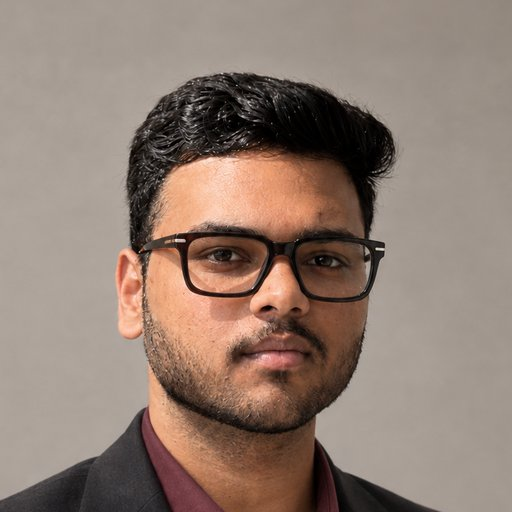
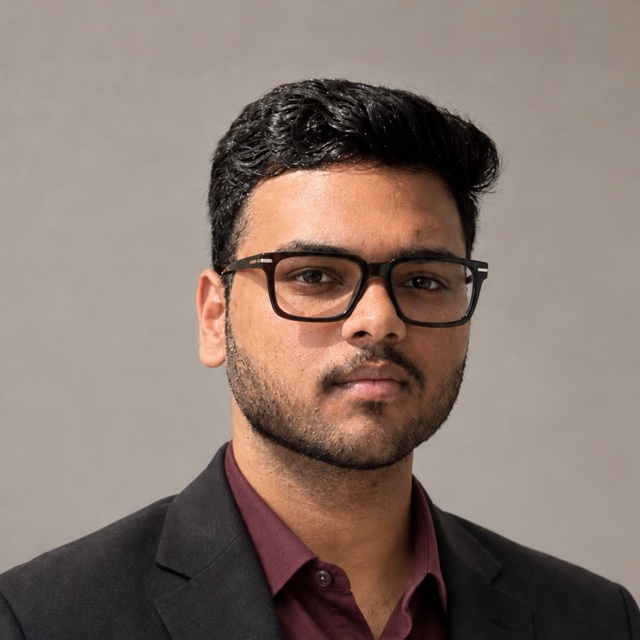
feat: redesign phase 7 team; flip home partnership layout
Home Team: heading and 'How we run events' commitments beside three open
black-and-white portraits (name, role, bio, LinkedIn); phones show people
first, portraits capped at 18rem. New TeamMember component and
operatingStandards data. New photos for Ayush and Kapish, cropped square.
Home partnership section flipped: list left, text right on large screens.

diff --git a/src/app/page.tsx b/src/app/page.tsx
@@ -3,11 +3,10 @@ import Link from 'next/link';
 import { ArrowRight, Compass, DoorOpen, Target, Users } from 'lucide-react';
 import HeroSection from '@/components/home/HeroSection';
 import { FeaturedEvent } from '@/components/home/FeaturedEvent';
-import { SectionHeading } from '@/components/ui/SectionHeading';
 import { eventsData } from '@/lib/data/events';
-import { homeContent, leadershipTeam, partnerEnquiryHref, partnersContent } from '@/lib/data/organization';
+import { homeContent, leadershipTeam, operatingStandards, partnerEnquiryHref, partnersContent } from '@/lib/data/organization';
 import { CollaborationList } from '@/components/partners/CollaborationList';
-import { TeamCard } from '@/components/team/TeamCard';
+import { TeamMember } from '@/components/team/TeamMember';
 import { VerticalsGrid } from '@/components/verticals/VerticalsGrid';
 import { pageMetadata } from '@/lib/seo';
 
@@ -82,20 +81,41 @@ export default function HomePage() {
         </div>
       </section>
 
-      {/* Team */}
-      <section className="mx-auto max-w-container border-t border-cream/10 px-6 py-20">
-        <SectionHeading eyebrow="Team" title="The people behind Apex Conclave." />
-        <div className="mt-10 grid grid-cols-1 gap-5 md:grid-cols-3">
-          {leadershipTeam.map((m) => (
-            <TeamCard key={m.name} name={m.name} role={m.role} photo={m.photo} bio={m.bio} />
-          ))}
+      {/* Team: heading and standards on the left, portraits on the right; phones show people before standards */}
+      <section id="team" aria-labelledby="team-heading" className="mx-auto max-w-container px-6 py-24 md:py-32">
+        <div className="grid gap-14 lg:grid-cols-12 lg:gap-10">
+          <div className="lg:col-span-4">
+            <p className="eyebrow mb-5">Team</p>
+            <h2 id="team-heading" className="max-w-[14ch] text-4xl font-normal leading-[1.08] md:text-[3.25rem]">
+              The people behind Apex Conclave.
+            </h2>
+          </div>
+
+          <div className="grid gap-12 sm:grid-cols-3 sm:gap-6 lg:col-span-8 lg:row-span-2">
+            {leadershipTeam.map((m) => (
+              <TeamMember key={m.name} name={m.name} role={m.role} photo={m.photo} bio={m.bio} linkedin={m.linkedin} />
+            ))}
+          </div>
+
+          <div className="lg:col-span-4 lg:self-end">
+            <h3 className="eyebrow mb-4">How we run events</h3>
+            <ul className="border-t border-cream/10">
+              {operatingStandards.map((s) => (
+                <li key={s.title} className="border-b border-cream/10 py-4">
+                  <p className="text-sm font-medium text-cream">{s.title}</p>
+                  <p className="mt-1 text-sm text-cream/70">{s.body}</p>
+                </li>
+              ))}
+            </ul>
+          </div>
         </div>
       </section>
 
       {/* Partnerships: last section before the footer */}
       <section aria-labelledby="partner-heading" className="bg-paper text-ink">
         <div className="mx-auto grid max-w-container gap-14 px-6 py-24 md:py-32 lg:grid-cols-12 lg:gap-10">
-          <div className="lg:col-span-5">
+          {/* Text after the list on large screens (About above puts text first); text still comes first on phones */}
+          <div className="lg:col-span-5 lg:col-start-8 lg:row-start-1">
             <p className="eyebrow mb-5 text-stone">Partner with us</p>
             <h2 id="partner-heading" className="max-w-[14ch] text-4xl font-normal leading-[1.08] md:text-[3.25rem]">
               {partnersContent.headline}
@@ -113,7 +133,7 @@ export default function HomePage() {
               </Link>
             </div>
           </div>
-          <div className="lg:col-span-7">
+          <div className="lg:col-span-7 lg:col-start-1 lg:row-start-1">
             <CollaborationList />
           </div>
         </div>

diff --git a/src/components/team/TeamMember.tsx b/src/components/team/TeamMember.tsx
@@ -1,0 +1,45 @@
+import Image from 'next/image';
+
+interface TeamMemberProps {
+  name: string;
+  role: string;
+  photo: string;
+  bio: string;
+  linkedin?: string;
+}
+
+/** Open portrait for dark sections: square black-and-white photo, name, role, bio, LinkedIn. */
+export function TeamMember({ name, role, photo, bio, linkedin }: TeamMemberProps) {
+  return (
+    <figure>
+      {/* Grayscale evens out the different photo backgrounds; the files stay in colour */}
+      <Image
+        src={photo}
+        alt={`${name}, ${role}`}
+        width={512}
+        height={512}
+        sizes="(min-width: 1024px) 260px, (min-width: 640px) 33vw, 100vw"
+        className="aspect-square w-full max-w-[18rem] border border-cream/10 object-cover grayscale sm:max-w-none"
+      />
+      <figcaption className="mt-5">
+        <h3 className="text-lg font-medium text-cream">{name}</h3>
+        <p className="eyebrow mt-1">{role}</p>
+        <p className="mt-3 text-sm leading-relaxed text-cream/70">{bio}</p>
+        {linkedin && (
+          <a
+            href={linkedin}
+            target="_blank"
+            rel="noopener noreferrer"
+            aria-label={`${name} on LinkedIn`}
+            className="ext-link mt-3 text-sm text-cream/70"
+            data-track="social_click"
+            data-track-platform="linkedin"
+            data-track-place="team"
+          >
+            LinkedIn
+          </a>
+        )}
+      </figcaption>
+    </figure>
+  );
+}

diff --git a/src/lib/data/organization.ts b/src/lib/data/organization.ts
@@ -75,6 +75,14 @@ export const leadershipTeam = [
   },
 ];
 
+// "How we run events" next to the team on home (owner-approved commitments, 2026-10-22)
+export const operatingStandards = [
+  { title: 'Student-led', body: 'Run by students, for students.' },
+  { title: 'Clear rules up front', body: 'Format, fees and allotment explained before you register.' },
+  { title: 'Fair competition', body: 'Published criteria and an impartial dais or panel.' },
+  { title: 'We reply', body: 'Every message answered within 48 hours.' },
+];
+
 // Partner logos once confirmed. Tiers stay internal; they are not shown on the site.
 export const partners: PartnerEntity[] = [];
 

diff --git a/progress.md b/progress.md
@@ -4,7 +4,7 @@ Last updated: 2026-10-20. Plan, decisions and acceptance checks: `IMPLEMENTATION
 
 ## START HERE (next session)
 
-**Redesign v3 in progress (branch `redesign`).** Brief: `../one.md`. Plan, owner decisions and phase list: "Redesign v3" in `IMPLEMENTATION_PLAN.md`. Phases 1–6 done 2026-10-22; next is Phase 7 (team). The owner commits each phase; stop after each phase and report.
+**Redesign v3 in progress (branch `redesign`).** Brief: `../one.md`. Plan, owner decisions and phase list: "Redesign v3" in `IMPLEMENTATION_PLAN.md`. Phases 1–7 done 2026-10-22; next is Phase 8 (other pages). The owner commits each phase; stop after each phase and report.
 
 Site credit: "Website by Kapish Garg" is not shown on the page; it lives in the author/creator meta tags, WebSite JSON-LD (`websiteSchema` in `lib/seo.ts`) and `public/llms.txt`.
 
@@ -23,6 +23,8 @@ After each phase: `npx tsc --noEmit`, `npm run lint`, `NEXT_DIST_DIR=.next-build
 **Phase 5, featured Diplovia (2026-10-22).** New `components/home/FeaturedEvent.tsx` replaces the home "Events under Apex Conclave" card. Ink section: "Featured event" label and "All events" link, then a split: left the title, "Presented by Apex Conclave.", a hairline definition list (Format, Dates, Venue, Committees by full name from `chambers.ts`, Registration) and two buttons, "View Event Details" and, while registration is closed, "Follow for registration updates" (Instagram, where dates are announced; it becomes "Register" when registration opens); right the event artwork in a hairline frame. Artwork: the delegate booklet cover rendered at 200 dpi with `pdftoppm` and cropped above the printed dates (31 Oct to 1 Nov, now out of date), `public/events/diplovia-2026-poster.jpg` (197 KB; served at 17 KB at 828px via next/image). New optional `EventEntity` fields `posterImage` and `format`. `homeContent.moreEventsNote` removed. Checked: tsc, lint, build, screenshots at 1280 and 600px.
 
 **Phase 6, partnerships (2026-10-22).** `partnersContent` rewritten: headline "Let’s build what’s next, together.", intro on who we aim to work with, the five collaboration types from the brief (`collaborations`), "why partner" reworded as intentions (no reach claims; the old "Our events reach…" and "Students aged 15 to 23 from schools and colleges across India" lines are gone), placements worded for any event. New `components/partners/CollaborationList.tsx` (ruled, numbered list for paper; each row opens the contact form via `partnerEnquiryFor()` with topic 'Sponsorship & Partnership' and subject 'Partnership: <type>'). New `.btn-ink` (dark button for paper). Home: partnership paper section before the footer (headline, intro, "Partner With Us", "How partnerships work", the list) replaces the Network cards and the "Attend · Partner · Collaborate" block; `homeContent.network` removed. `/partners`: paper intro with the list, ink "Why partner" (three open columns), "What a sponsorship can include" (ruled two-column list), "Who we work with" only renders once `partners` has entries, email line and button; Community link removed. Checked: tsc, lint, build, links on / and /partners return 200, screenshots at 1280px.
+
+**Phase 7, team (2026-10-22).** Home partnership section flipped (list left, text right on large screens; text still first on phones). New `components/team/TeamMember.tsx`: open portrait for ink sections, square photo in black and white (CSS `grayscale`, files stay in colour), name, role, bio, LinkedIn (`.ext-link`); capped at 18rem wide on phones. Home Team section (`id="team"`): heading and a "How we run events" list (`operatingStandards` in `organization.ts`: Student-led, Clear rules up front, Fair competition, We reply) on the left, three portraits on the right; on phones the people come before the list. New photos: Ayush from `~/Desktop/PHOTO-2026-10-22-09-49-57.jpg`, Kapish from `~/Downloads/ChatGPT Image Sep 27, 2026, 05_42_51 PM.png` (owner confirmed it is a real photo, only retouched); both cropped square to 640px. TeamCard is still used on About and Community until Phase 8. After replacing a photo, delete `.next-build/cache/images` (and `.next/cache/images`) locally or the image optimizer serves the old one; Vercel clears it on deploy. Checked: tsc, lint, build, screenshots at 1280 and 600px.
 
 ## What this is
 

diff --git a/IMPLEMENTATION_PLAN.md b/IMPLEMENTATION_PLAN.md
@@ -41,6 +41,8 @@ Source: owner brief `../one.md`. Goal: present Apex Conclave as a multi-format s
 | Featured details | Format, dates, venue, committees, registration status; no fees; 'All events' link kept, 'more events' note dropped |
 | Partner enquiries | One topic ('Sponsorship & Partnership'), subject prefilled per collaboration type |
 | /partners blocks | Keep 'what a sponsorship can include' (generic wording); reword 'why partner' as intentions; hide 'Who we work with' until real partners exist |
+| Team | Three portraits, black and white (CSS grayscale), heading kept, 'How we run events' list with the owner-approved copy; new photos for Ayush and Kapish (Kapish's file is a real photo, retouched, per owner) |
+| Home partnership layout | Flipped: list left, text right on large screens (text first on phones) |
 | Vertical icons | Landmark, BriefcaseBusiness, Code, Mic, Sprout, Gamepad2 (Lucide, bronze) |
 | Footer text | The brief's line: "Apex Conclave creates platforms for students to compete, collaborate and showcase their abilities across business, technology, diplomacy, debate and more." |
 
@@ -52,7 +54,7 @@ Source: owner brief `../one.md`. Goal: present Apex Conclave as a multi-format s
 - [x] 4. Event Verticals (`/verticals`, data with active/planned status) (2026-10-22)
 - [x] 5. Featured Diplovia section (artwork from `docs/` PDFs) (2026-10-22)
 - [x] 6. Partnerships (home section, `/partners`, contact form topics) (2026-10-22)
-- [ ] 7. Team
+- [x] 7. Team (2026-10-22)
 - [ ] 8. Other pages (About + Community merge, events, event page, register, contact, terms, FAQ, 404)
 - [ ] 9. Copy and SEO (metadata, keywords, JSON-LD, `llms.txt`)
 - [ ] 10. Final QA (a11y, responsive at real phone widths, forms, links, performance, summary)
